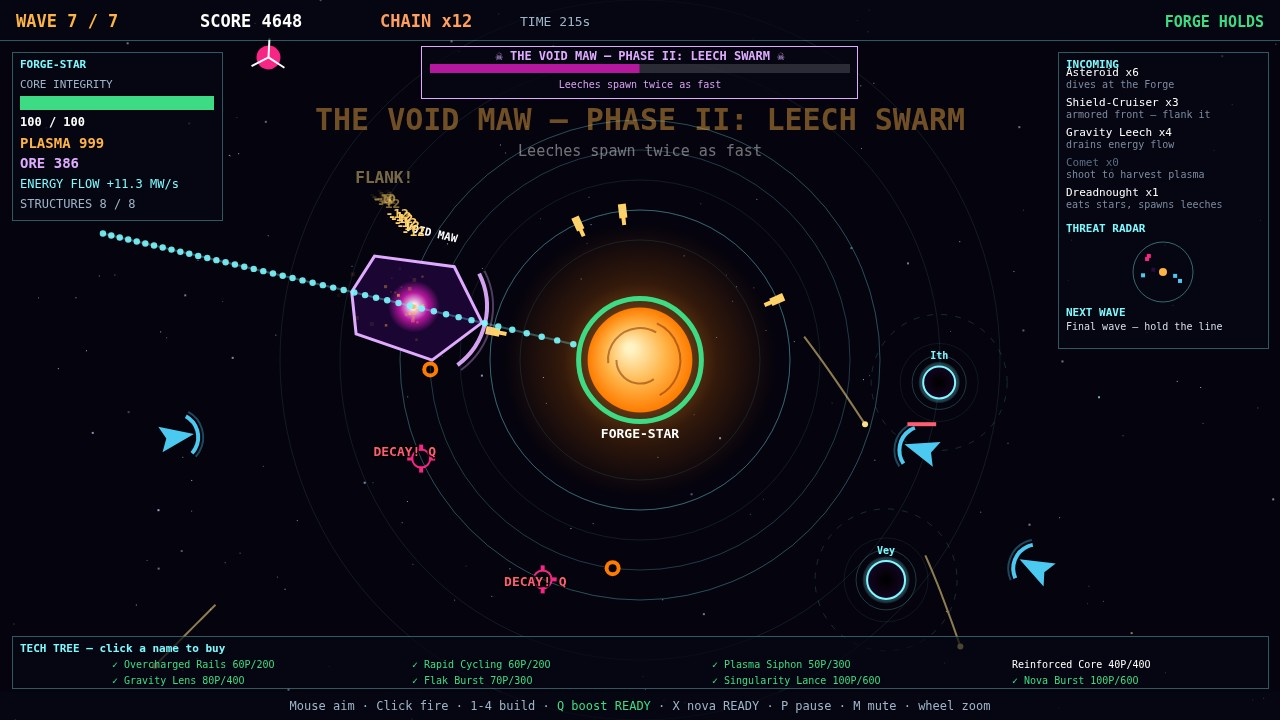
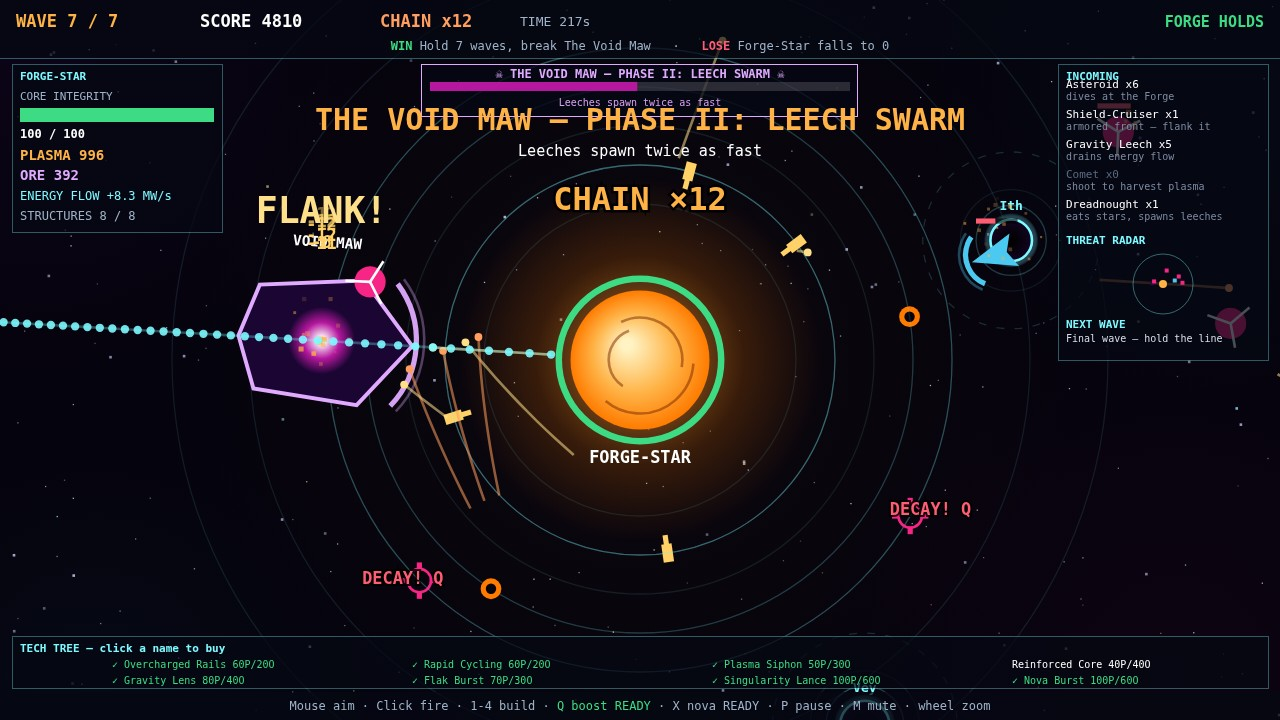
Pass 5: cover + title re-stage (top-1 cover formula)
- New title, zero dashes: GRAVITAS FORGE: bend shots around black hole
  moons to flank armored cruisers, 7 waves, 8 techs, 4 structures, 2
  superweapons, boss The Void Maw
- Cover: boss pinned center-left at zoom 1.3, PHASE II, live FLANK! tag on
  the boss, big CHAIN x12 callout, WIN/LOSE line in the top bar, denser
  starfield + nebula, aim arc moved to world space so it stays true under
  zoom, FLANK! damage numbers 16 -> 28
- Staging only: no gameplay, balance, damage, gravity, economy, wave,
  boss, or scoring changes. Screenshots 2/3/4 unchanged.
- Verified: autoplay WINS (229s file://, score 5843), careless LOSES,
  15/15 control checks pass, zero errors, zero external requests,
  dossier rebuilt twice byte-identical.

diff --git a/game/src/ui/TelemetryHUDRenderer.js b/game/src/ui/TelemetryHUDRenderer.js
@@ -32,11 +32,31 @@ export class TelemetryHUDRenderer {
     this.drawProjectiles(ctx, w);
     this.drawParticles(ctx, w);
     this.drawDamageNumbers(ctx, w);
+    // The aim arc lives in world space (not the HUD): it is a trajectory
+    // prediction, so it must ride the camera zoom like everything else —
+    // drawn from the HUD it pointed at the wrong place whenever zoomed.
+    if (w.phase === 'playing') this.drawAimArc(ctx, w);
   }
 
   drawStarfield(ctx, w) {
     ctx.fillStyle = '#05030d';
     ctx.fillRect(0, 0, 1280, 720);
+    // Faint nebulae so the field never reads as empty black: five static,
+    // very low-alpha clouds (visual only, fixed positions, deterministic).
+    const nebulae = [
+      { x: 180, y: 130, r: 260, c: '42, 10, 74' },
+      { x: 1100, y: 150, r: 240, c: '10, 42, 58' },
+      { x: 1050, y: 600, r: 280, c: '58, 10, 42' },
+      { x: 220, y: 620, r: 220, c: '10, 42, 58' },
+      { x: 640, y: 360, r: 340, c: '58, 32, 10' },
+    ];
+    for (const n of nebulae) {
+      const g = ctx.createRadialGradient(n.x, n.y, 0, n.x, n.y, n.r);
+      g.addColorStop(0, 'rgba(' + n.c + ', 0.16)');
+      g.addColorStop(1, 'rgba(' + n.c + ', 0)');
+      ctx.fillStyle = g;
+      ctx.fillRect(n.x - n.r, n.y - n.r, n.r * 2, n.r * 2);
+    }
     // Deterministic starfield from the world's seed stars.
     ctx.save();
     for (const s of w.stars) {
@@ -338,7 +358,7 @@ export class TelemetryHUDRenderer {
   drawDamageNumbers(ctx, w) {
     ctx.textAlign = 'center';
     for (const d of w.damageNumbers) {
-      // FLANK! tags ride bigger (size 16); plain damage stays 13.
+      // FLANK! tags ride bigger (size 28); plain damage stays 13.
       ctx.font = 'bold ' + (d.size || 13) + 'px monospace';
       ctx.globalAlpha = Math.min(1, d.life / 0.5);
       ctx.fillStyle = d.color;
@@ -358,7 +378,9 @@ export class TelemetryHUDRenderer {
     this.drawControls(ctx, w);
     if (w.boss) this.drawBossBar(ctx, w);
     if (w.phaseBanner) this.drawPhaseBanner(ctx, w);
-    if (w.phase === 'playing') this.drawAimArc(ctx, w);
+    // Big CHAIN callout while a streak is hot: the top-1 covers shout their
+    // chain in giant text, and the top bar alone reads too small.
+    if (w.phase === 'playing' && w.chain >= 8 && w.chainTimer > 0) this.drawChainCallout(ctx, w);
   }
 
   panel(ctx, x, y, pw, ph, title) {
@@ -375,11 +397,11 @@ export class TelemetryHUDRenderer {
 
   drawTopBar(ctx, w) {
     ctx.fillStyle = 'rgba(5, 8, 20, 0.72)';
-    ctx.fillRect(0, 0, 1280, 40);
+    ctx.fillRect(0, 0, 1280, 58);
     ctx.strokeStyle = 'rgba(125, 249, 255, 0.35)';
     ctx.beginPath();
-    ctx.moveTo(0, 40.5);
-    ctx.lineTo(1280, 40.5);
+    ctx.moveTo(0, 58.5);
+    ctx.lineTo(1280, 58.5);
     ctx.stroke();
     ctx.textAlign = 'left';
     ctx.font = 'bold 17px monospace';
@@ -398,38 +420,59 @@ export class TelemetryHUDRenderer {
     ctx.font = 'bold 15px monospace';
     ctx.textAlign = 'right';
     ctx.fillText(state, 1264, 27);
+    // Row 2: the win and lose conditions in plain words, centered — the
+    // top entries state both, so the goal reads at a glance.
+    const winLose = [
+      { text: 'WIN', color: GREEN, bold: true },
+      { text: ' Hold 7 waves, break The Void Maw   ·   ', color: '#9fb3c8', bold: false },
+      { text: 'LOSE', color: RED, bold: true },
+      { text: ' Forge-Star falls to 0', color: '#9fb3c8', bold: false },
+    ];
+    let total = 0;
+    for (const s of winLose) {
+      ctx.font = (s.bold ? 'bold ' : '') + '12px monospace';
+      total += ctx.measureText(s.text).width;
+    }
+    let x = 640 - total / 2;
+    ctx.textAlign = 'left';
+    for (const s of winLose) {
+      ctx.font = (s.bold ? 'bold ' : '') + '12px monospace';
+      ctx.fillStyle = s.color;
+      ctx.fillText(s.text, x, 50);
+      x += ctx.measureText(s.text).width;
+    }
   }
 
   drawLeftPanel(ctx, w) {
-    this.panel(ctx, 12, 52, 210, 168, 'FORGE-STAR');
+    this.panel(ctx, 12, 64, 210, 168, 'FORGE-STAR');
     ctx.textAlign = 'left';
     // Core Integrity bar.
     ctx.fillStyle = '#9fb3c8';
     ctx.font = '11px monospace';
-    ctx.fillText('CORE INTEGRITY', 20, 88);
+    ctx.fillText('CORE INTEGRITY', 20, 100);
     const frac = Math.max(0, w.core / MAX_CORE);
     ctx.fillStyle = 'rgba(255,255,255,0.15)';
-    ctx.fillRect(20, 96, 194, 14);
+    ctx.fillRect(20, 108, 194, 14);
     ctx.fillStyle = frac > 0.5 ? GREEN : frac > 0.25 ? GOLD : RED;
-    ctx.fillRect(20, 96, 194 * frac, 14);
+    ctx.fillRect(20, 108, 194 * frac, 14);
     ctx.fillStyle = '#fff';
     ctx.font = 'bold 12px monospace';
-    ctx.fillText(Math.ceil(w.core) + ' / ' + MAX_CORE, 20, 126);
+    ctx.fillText(Math.ceil(w.core) + ' / ' + MAX_CORE, 20, 138);
     // Resources.
     ctx.fillStyle = GOLD;
     ctx.font = 'bold 14px monospace';
-    ctx.fillText('PLASMA ' + Math.floor(w.plasma), 20, 148);
+    ctx.fillText('PLASMA ' + Math.floor(w.plasma), 20, 160);
     ctx.fillStyle = '#e0aaff';
-    ctx.fillText('ORE ' + Math.floor(w.ore), 20, 168);
+    ctx.fillText('ORE ' + Math.floor(w.ore), 20, 180);
     ctx.fillStyle = CYAN;
     ctx.font = '12px monospace';
-    ctx.fillText('ENERGY FLOW +' + w.tech.plasmaRate().toFixed(1) + ' MW/s', 20, 188);
+    ctx.fillText('ENERGY FLOW +' + w.tech.plasmaRate().toFixed(1) + ' MW/s', 20, 200);
     ctx.fillStyle = '#9fb3c8';
-    ctx.fillText('STRUCTURES ' + w.structures.length + ' / 8', 20, 208);
+    ctx.fillText('STRUCTURES ' + w.structures.length + ' / 8', 20, 220);
   }
 
   drawRightPanel(ctx, w) {
-    this.panel(ctx, 1058, 52, 210, 296, 'INCOMING');
+    this.panel(ctx, 1058, 64, 210, 296, 'INCOMING');
     ctx.textAlign = 'left';
     ctx.font = '11px monospace';
     const rows = [
@@ -439,7 +482,7 @@ export class TelemetryHUDRenderer {
       ['Comet', w.comets.length, 'shoot to harvest plasma'],
       ['Dreadnought', w.boss ? 1 : 0, 'eats stars, spawns leeches'],
     ];
-    let y = 76;
+    let y = 88;
     for (const [name, n, desc] of rows) {
       ctx.fillStyle = n > 0 ? '#fff' : '#5a6b80';
       ctx.fillText(name + ' x' + n, 1066, y);
@@ -570,21 +613,21 @@ export class TelemetryHUDRenderer {
     const bw = 420;
     const bx = 640 - bw / 2;
     ctx.fillStyle = 'rgba(5, 8, 20, 0.8)';
-    ctx.fillRect(bx - 8, 46, bw + 16, 52);
+    ctx.fillRect(bx - 8, 64, bw + 16, 52);
     ctx.strokeStyle = '#e0aaff';
-    ctx.strokeRect(bx - 8.5, 46.5, bw + 16, 52);
+    ctx.strokeRect(bx - 8.5, 64.5, bw + 16, 52);
     ctx.fillStyle = '#e0aaff';
     ctx.font = 'bold 12px monospace';
     ctx.textAlign = 'center';
-    ctx.fillText('☠ THE VOID MAW — ' + info.name + ': ' + info.title + ' ☠', 640, 60);
+    ctx.fillText('☠ THE VOID MAW — ' + info.name + ': ' + info.title + ' ☠', 640, 78);
     ctx.fillStyle = 'rgba(255,255,255,0.15)';
-    ctx.fillRect(bx, 64, bw, 9);
+    ctx.fillRect(bx, 82, bw, 9);
     ctx.fillStyle = '#b5179e';
-    ctx.fillRect(bx, 64, bw * Math.max(0, b.hp / b.maxHp), 9);
+    ctx.fillRect(bx, 82, bw * Math.max(0, b.hp / b.maxHp), 9);
     // The phase's ability, in plain words under the bar.
     ctx.fillStyle = '#d7a0f0';
     ctx.font = '10px monospace';
-    ctx.fillText(info.ability, 640, 88);
+    ctx.fillText(info.ability, 640, 106);
   }
 
   // A short center banner when the boss changes phase.
@@ -600,6 +643,20 @@ export class TelemetryHUDRenderer {
     ctx.fillStyle = '#fff';
     ctx.font = '15px monospace';
     ctx.fillText(ban.sub, 640, 156);
+    ctx.restore();
+  }
+
+  // A big gold CHAIN xN callout under the boss banner while a streak is hot.
+  drawChainCallout(ctx, w) {
+    ctx.save();
+    ctx.globalAlpha = Math.min(1, w.chainTimer);
+    ctx.textAlign = 'center';
+    ctx.font = 'bold 32px monospace';
+    ctx.strokeStyle = 'rgba(0, 0, 0, 0.85)';
+    ctx.lineWidth = 5;
+    ctx.strokeText('CHAIN ×' + w.chain, 640, 210);
+    ctx.fillStyle = GOLD;
+    ctx.fillText('CHAIN ×' + w.chain, 640, 210);
     ctx.restore();
   }
 

diff --git a/game/src/main.js b/game/src/main.js
@@ -71,7 +71,7 @@ function makeStarfield() {
     seed = (seed * 16807) % 2147483647;
     return seed / 2147483647;
   };
-  for (let i = 0; i < 170; i++) {
+  for (let i = 0; i < 420; i++) {
     stars.push({
       x: rnd() * VIEW_W,
       y: rnd() * VIEW_H,
@@ -480,21 +480,86 @@ function stageShot(name) {
       if (world.phase === 'won' || world.phase === 'lost') break;
     }
     window.__gravitas.autoplay = false;
-    // Cover staging: the freeze frame shows the fight at its peak. The
-    // chain shown is the run's real peak chain (at least x8, capped at the
-    // x12 score-multiplier cap) — the moment the boss crosses 50% is often
-    // a low-chain lull, and the cover should read like the fight feels.
+    // Cover staging: pin the boss center-left, big in frame, and keep the
+    // fight at its 50% peak while a live FLANK! tag lands on it.
     if (world.phase === 'playing' && world.boss) {
+      const BOSS_X = 395;
+      const BOSS_Y = 345;
+      world.boss.x = BOSS_X;
+      world.boss.y = BOSS_Y;
+      // Keep firing at the pinned boss until a gold FLANK! number is live
+      // ON THE BOSS (a cruiser elsewhere can also throw a FLANK! tag, and
+      // that one lands on the phase banner); hold the boss at ~50% HP so
+      // the frame stays in PHASE II, not III.
+      window.__gravitas.autoplay = true;
+      let wait = 0;
+      while (wait < 60 * 15 && !world.damageNumbers.some((d) => d.text === 'FLANK!' && Math.abs(d.x - BOSS_X) < 120 && Math.abs(d.y - BOSS_Y) < 120)) {
+        if (world.fireCooldown > 0) world.fireCooldown -= FIXED_DT;
+        autoplayStep();
+        world.engine.step(FIXED_DT, systems);
+        wait++;
+        world.boss.x = BOSS_X;
+        world.boss.y = BOSS_Y;
+        if (world.boss.hp < world.boss.maxHp * 0.36) world.boss.hp = world.boss.maxHp * 0.5;
+        if (world.phase === 'won' || world.phase === 'lost') break;
+      }
+      window.__gravitas.autoplay = false;
+      // Re-apply the freeze-frame state: the wait steps decayed orbits and
+      // ran the chain timer down, and may have let the phase banner lapse.
       world.chain = Math.max(world.chain, Math.min(Math.max(world.peakChain, 8), 12));
       world.chainTimer = 2.5;
+      world.boss.phase = 2;
       // Cover staging: exactly two structures stay decayed (so the Q boost
       // stays READY and the DECAY! Q label still reads) and the rest are
-      // fresh — the Pass 1 cover showed six DECAY! Q labels at once.
-      world.structures.forEach((s, i) => {
-        s.orbitR = i < 2 ? s.nominalR - 20 : s.nominalR;
+      // fresh — and the two are rotated to fixed clear angles (135°
+      // bottom-left, 30° right), because picking by current position kept
+      // landing a label on the tech strip: the label is drawn radially
+      // outward from the star, ~10px below the structure, not above it.
+      const labelPenalty = (s) => {
+        const dx = s.x - STAR_X;
+        const dy = s.y - STAR_Y;
+        const d = Math.hypot(dx, dy) || 1;
+        const lx = s.x + (dx / d) * 18;
+        const ly = s.y + (dy / d) * 18 - 10;
+        let p = 0;
+        if (ly < 130) p += 100;
+        if (ly < 240 && lx > 380 && lx < 900) p += 100;
+        if (lx < 240) p += 50;
+        if (lx > 1040) p += 50;
+        if (ly > 630) p += 100;
+        if (ly < 250) p += 20;
+        return p;
+      };
+      const decayed = [...world.structures]
+        .sort((a, b) => labelPenalty(a) - labelPenalty(b))
+        .slice(0, 2);
+      const decayAngles = [(135 * Math.PI) / 180, (30 * Math.PI) / 180];
+      world.structures.forEach((s) => {
+        if (decayed.includes(s)) {
+          s.angle = decayAngles[decayed.indexOf(s)];
+          s.orbitR = s.nominalR - 20;
+        } else {
+          s.orbitR = s.nominalR;
+        }
         s.x = STAR_X + Math.cos(s.angle) * s.orbitR;
         s.y = STAR_Y + Math.sin(s.angle) * s.orbitR;
       });
+      // Cover staging: keep only the damage numbers on the boss — a stray
+      // cruiser FLANK! or -23 elsewhere in the frame lands on the banner or
+      // the INCOMING panel, and the freeze is about the boss fight.
+      world.damageNumbers = world.damageNumbers.filter(
+        (d) => Math.abs(d.x - BOSS_X) < 120 && Math.abs(d.y - BOSS_Y) < 120,
+      );
+      world.phaseBanner = {
+        text: 'THE VOID MAW — PHASE II: LEECH SWARM',
+        sub: 'Leeches spawn twice as fast',
+        timer: 2.5,
+      };
+      // Cover staging: zoom the tactical camera about the star so the boss
+      // renders visibly bigger than the Pass 3 cover (the aim arc now draws
+      // in world space, so it stays true under zoom).
+      world.engine.camera.zoom = 1.3;
+      world.engine.camera.targetZoom = 1.3;
     }
     aimAtNearestEnemy();
   } else if (name === 'win') {

diff --git a/game/src/systems/OrbitalPhysicsEngine.js b/game/src/systems/OrbitalPhysicsEngine.js
@@ -178,7 +178,7 @@ export class OrbitalPhysicsEngine {
     // number, a high chime, and a counter the debug handle can verify.
     if (flank && (e.kind === 'cruiser' || e.kind === 'dreadnought')) {
       w.flankHits++;
-      w.engine.addDamageNumber(e.x, e.y - e.radius - 26, 'FLANK!', '#ffe08a', 16);
+      w.engine.addDamageNumber(e.x, e.y - e.radius - 26, 'FLANK!', '#ffe08a', 28);
       if (w.audio) w.audio.flankHit();
     }
     w.engine.burst(e.x, e.y, 4, '#ffb347', 90);

diff --git a/README.md b/README.md
@@ -1,4 +1,4 @@
-# GRAVITAS FORGE — Orbital Gravity-Slingshot Defense
+# GRAVITAS FORGE: bend shots around black hole moons to flank armored cruisers, 7 waves, 8 techs, 4 structures, 2 superweapons, boss The Void Maw
 
 [![make.fun](https://make.fun/badge/best-game-01.svg)](https://make.fun/bounty/best-game-01)
 [![rank](https://make.fun/badge/best-game-01/ZayyidFarenheit/makefun-gravitas-forge/rank.svg)](https://make.fun/bounty/best-game-01)
